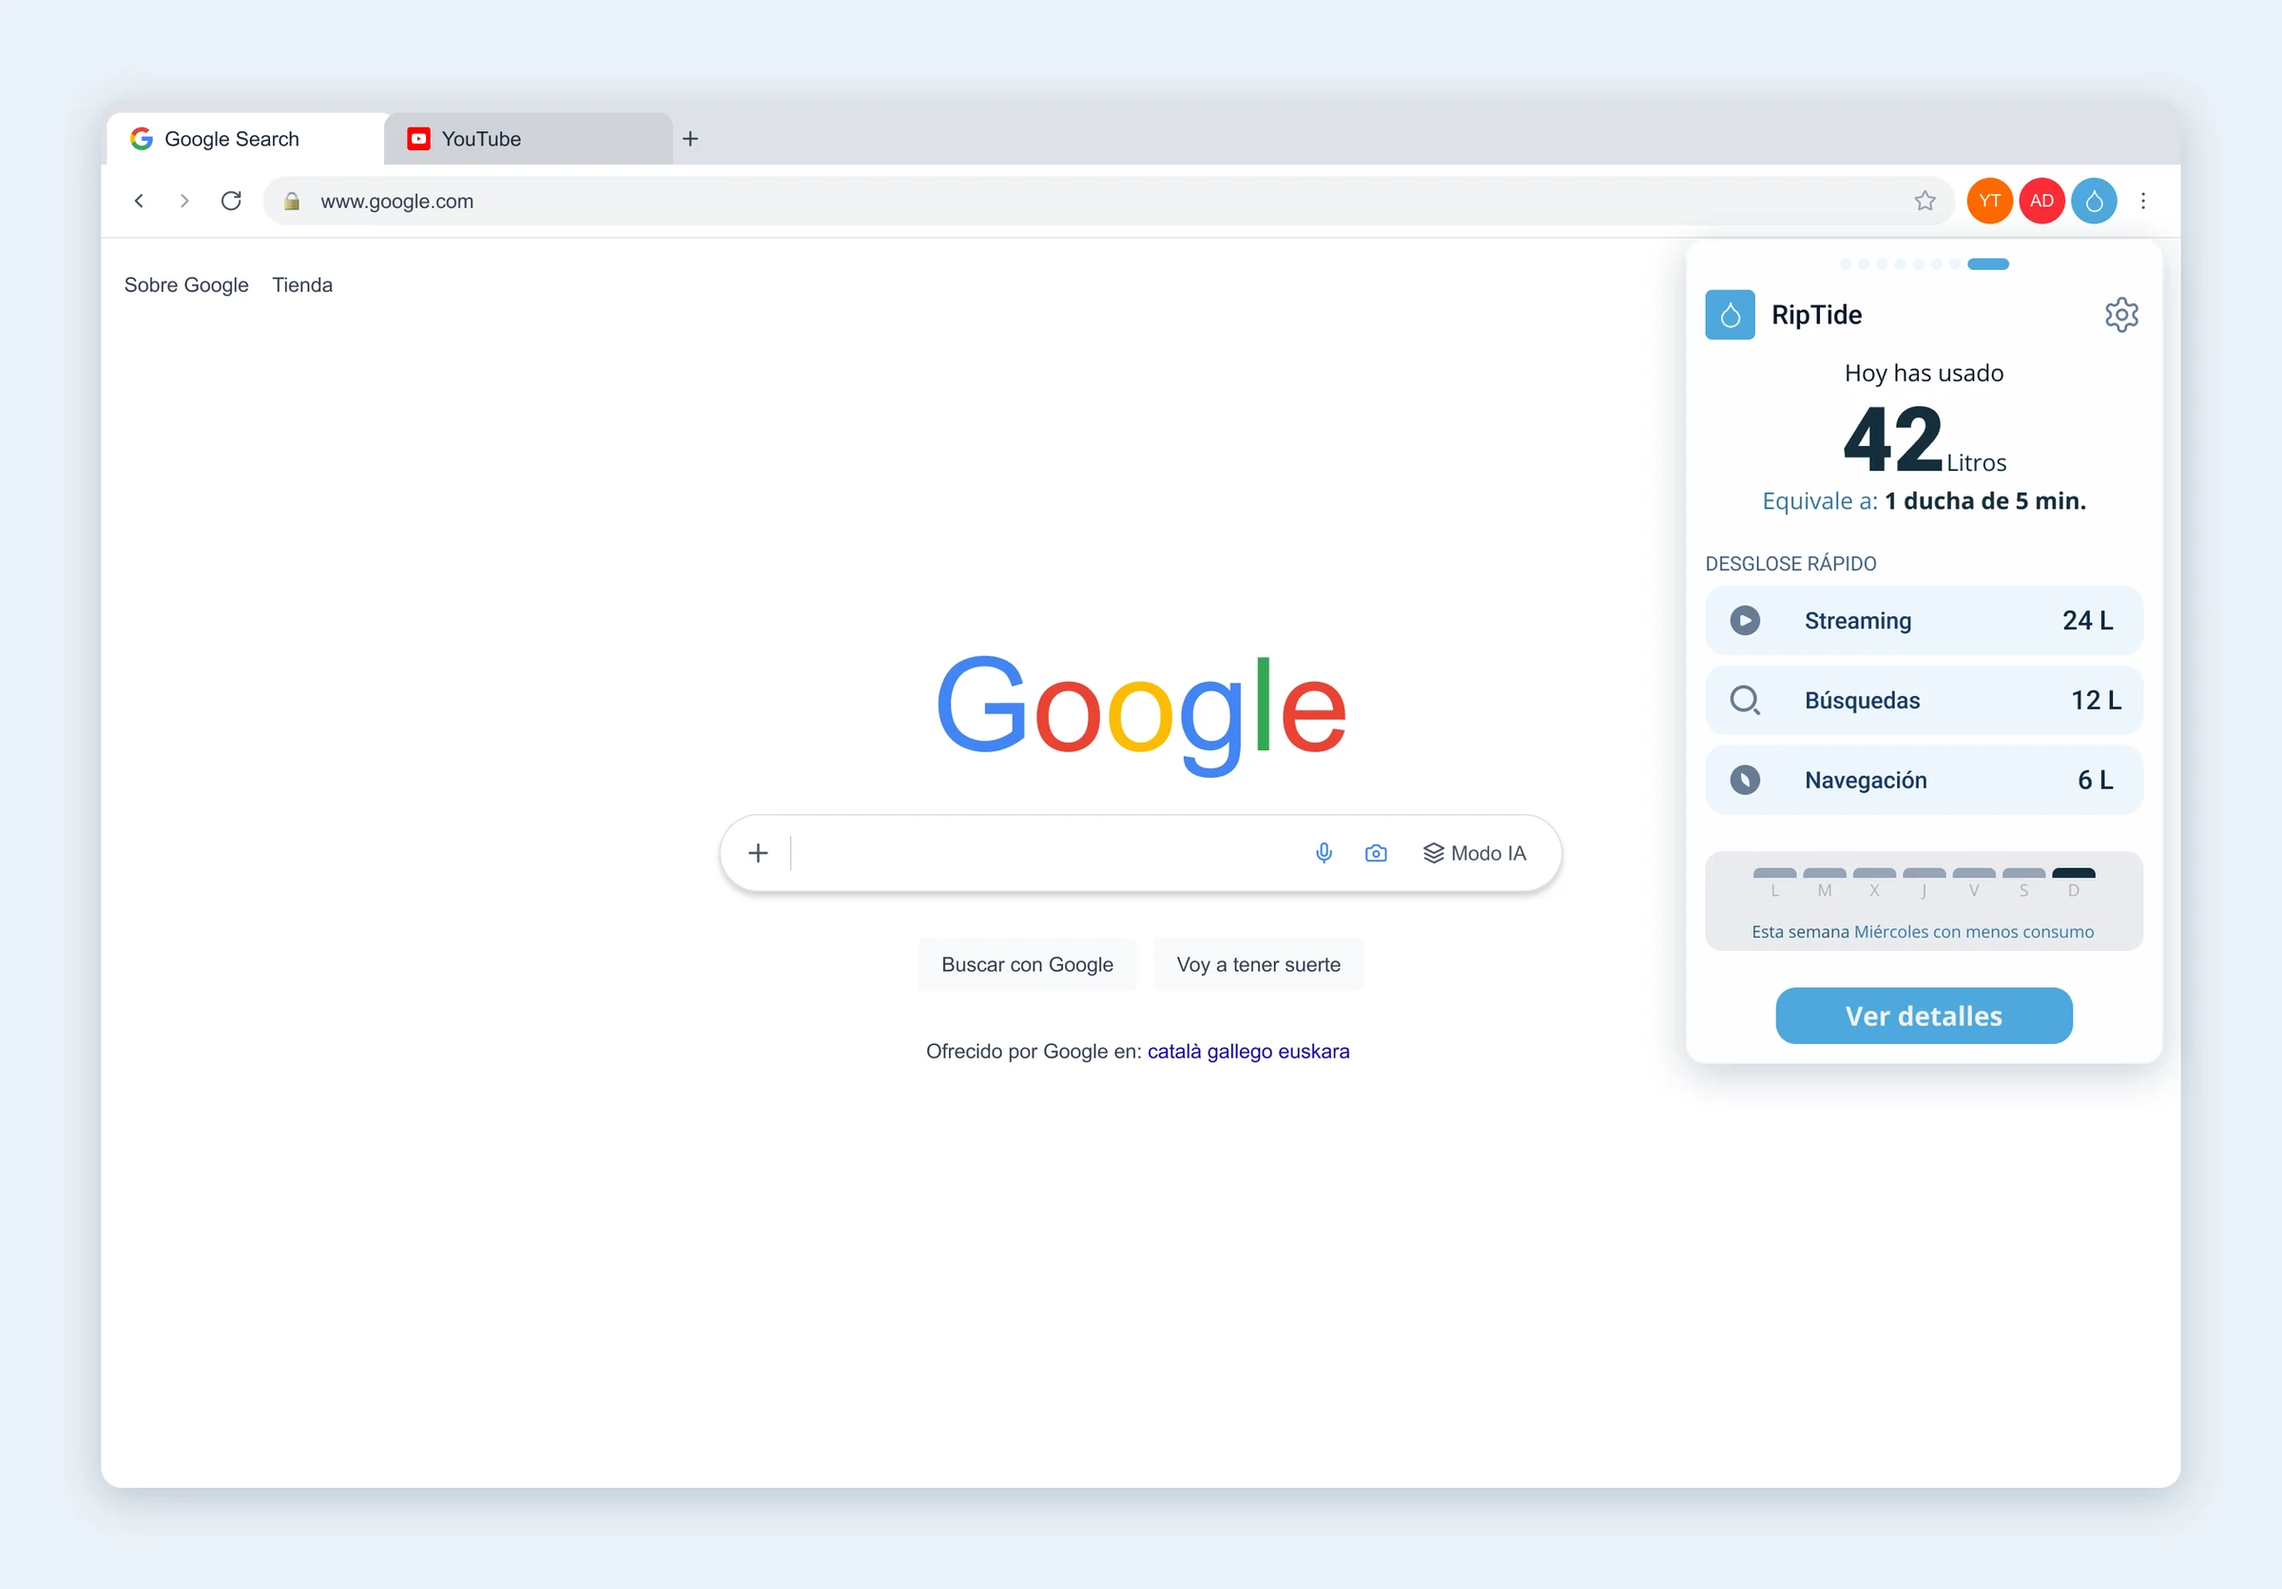
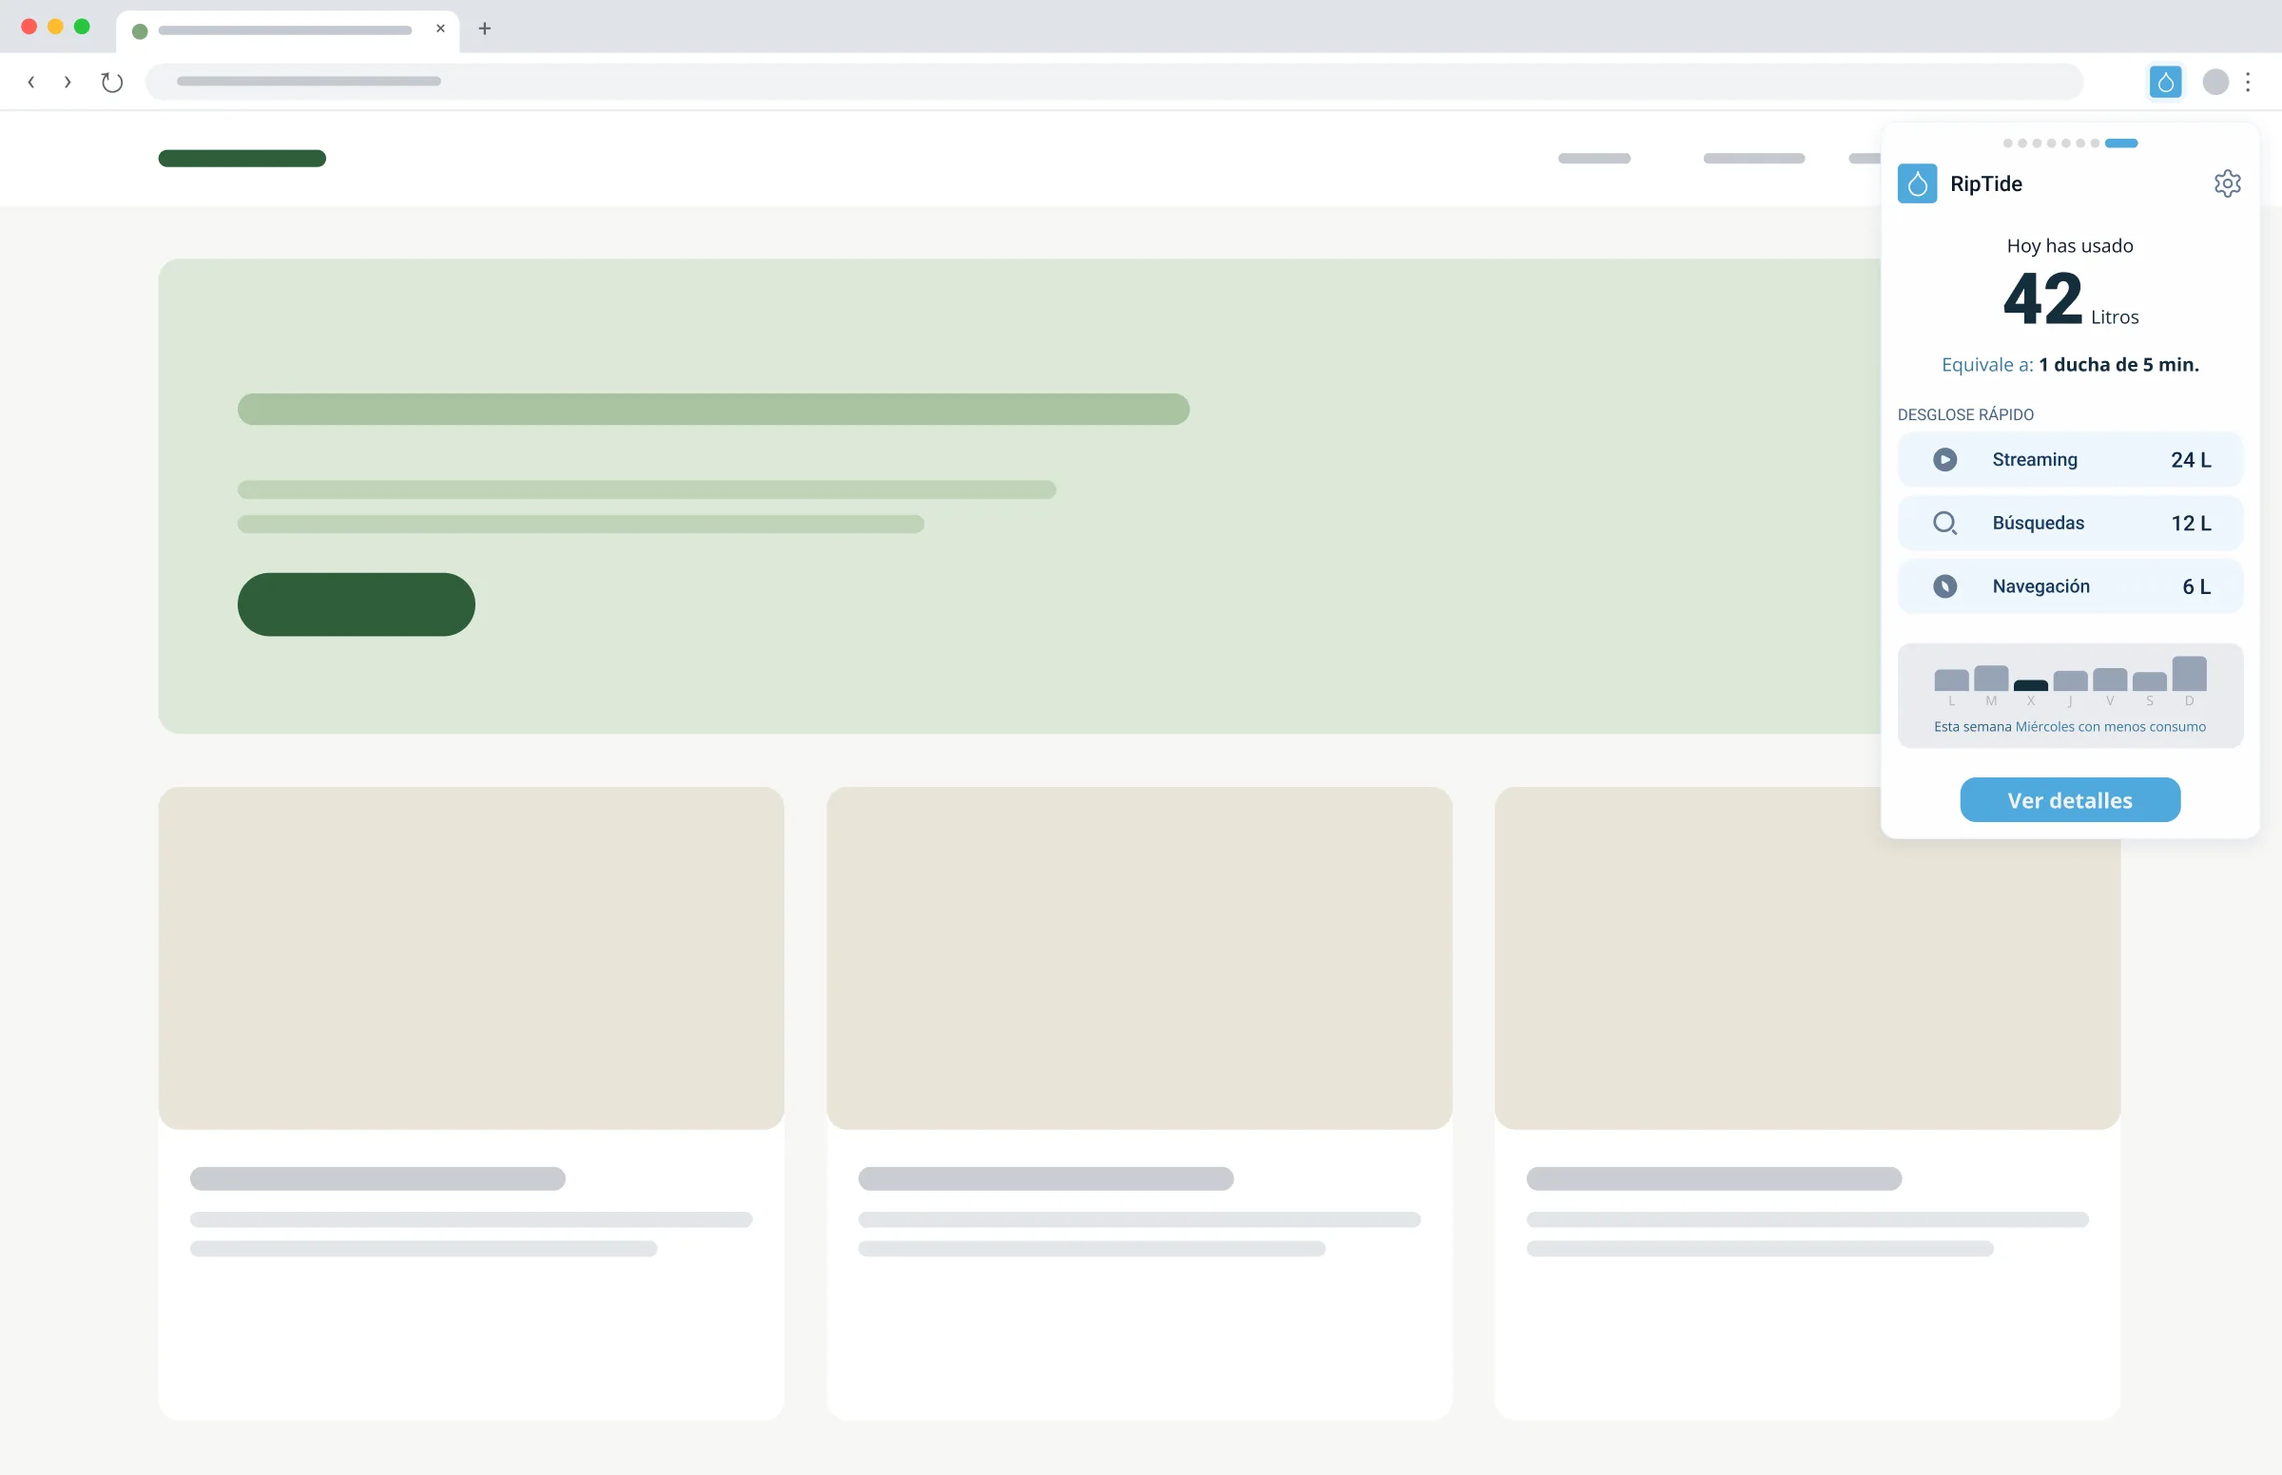
RipTide: imagen en contexto con una pantalla real del prototipo
Sustituye la captura con Google por la pantalla «09 Resumen» del prototipo
navegable (2400 × 1552) y ajusta los textos alternativos en ES, EN y PT-BR.

Claude-Session: https://claude.ai/code/session_01V6iiSrhF96AwDFNajSEUjT

diff --git a/app/[lang]/work/riptide/page.tsx b/app/[lang]/work/riptide/page.tsx
@@ -23,7 +23,7 @@ export async function generateMetadata({ params }: { params: Promise<{ lang: str
 /* ─── imágenes ──────────────────────────────────────────────────── */
 const IMG = {
   evolution:  { src: "/assets/riptide/evolucion-diseno.webp",      w: 2400, h: 669 },
-  context:    { src: "/assets/riptide/extension-en-contexto.webp", w: 2400, h: 1671 },
+  context:    { src: "/assets/riptide/extension-en-contexto.webp", w: 2400, h: 1552 },
   onboarding: { src: "/assets/riptide/onboarding-y-ajustes.webp",  w: 2400, h: 846 },
   landing:    { src: "/assets/riptide/landing.webp",               w: 2400, h: 1589 },
 };
@@ -126,7 +126,7 @@ const copy = {
     img_happy_cap: "Del descubrimiento al panel: instalación, onboarding, tres ajustes de personalización y primer resumen.",
     img_evo_alt: "La pantalla de bienvenida de RipTide en tres fases: boceto a mano, wireframe de baja fidelidad y diseño final",
     img_evo_cap: "Del boceto en papel al wireframe y a la alta fidelidad.",
-    img_ctx_alt: "Navegador con Google abierto y el popup de RipTide desplegado bajo el icono de la gota: hoy 42 litros, equivalentes a una ducha de 5 minutos, con desglose por streaming, búsquedas y navegación",
+    img_ctx_alt: "Navegador con una web de ejemplo y el popup de RipTide desplegado bajo el icono de la gota: hoy 42 litros, equivalentes a una ducha de 5 minutos, con desglose por streaming, búsquedas y navegación",
     img_ctx_cap: "La extensión vive en la barra del navegador y solo se abre cuando la persona la consulta.",
     img_onb_alt: "Seis pantallas del popup de RipTide: bienvenida, privacidad, qué quieres ver, cada cuánto avisar, unidad de medida y configuración",
     img_onb_cap: "Onboarding y ajustes: la persona decide qué se mide, cuándo se avisa y en qué unidad.",
@@ -247,7 +247,7 @@ const copy = {
     img_happy_cap: "From discovery to dashboard: installation, onboarding, three personalisation settings and a first summary.",
     img_evo_alt: "The RipTide welcome screen in three stages: hand sketch, low-fidelity wireframe and final design",
     img_evo_cap: "From paper sketch to wireframe to high fidelity.",
-    img_ctx_alt: "Browser with Google open and the RipTide popup expanded under the drop icon: 42 litres today, equivalent to a 5-minute shower, broken down by streaming, searches and browsing",
+    img_ctx_alt: "Browser with a sample website and the RipTide popup expanded under the drop icon: 42 litres today, equivalent to a 5-minute shower, broken down by streaming, searches and browsing",
     img_ctx_cap: "The extension lives in the browser bar and only opens when the person checks it.",
     img_onb_alt: "Six RipTide popup screens: welcome, privacy, what to see, how often to notify, unit of measure and settings",
     img_onb_cap: "Onboarding and settings: people decide what is measured, when they're notified and in which unit.",
@@ -368,7 +368,7 @@ const copy = {
     img_happy_cap: "Da descoberta ao painel: instalação, onboarding, três ajustes de personalização e o primeiro resumo.",
     img_evo_alt: "A tela de boas-vindas do RipTide em três fases: esboço à mão, wireframe de baixa fidelidade e design final",
     img_evo_cap: "Do esboço no papel ao wireframe e à alta fidelidade.",
-    img_ctx_alt: "Navegador com o Google aberto e o pop-up do RipTide aberto abaixo do ícone da gota: hoje 42 litros, equivalentes a um banho de 5 minutos, com divisão por streaming, buscas e navegação",
+    img_ctx_alt: "Navegador com um site de exemplo e o pop-up do RipTide aberto abaixo do ícone da gota: hoje 42 litros, equivalentes a um banho de 5 minutos, com divisão por streaming, buscas e navegação",
     img_ctx_cap: "A extensão fica na barra do navegador e só abre quando a pessoa a consulta.",
     img_onb_alt: "Seis telas do pop-up do RipTide: boas-vindas, privacidade, o que você quer ver, com que frequência avisar, unidade de medida e configurações",
     img_onb_cap: "Onboarding e ajustes: a pessoa decide o que é medido, quando é avisada e em que unidade.",
